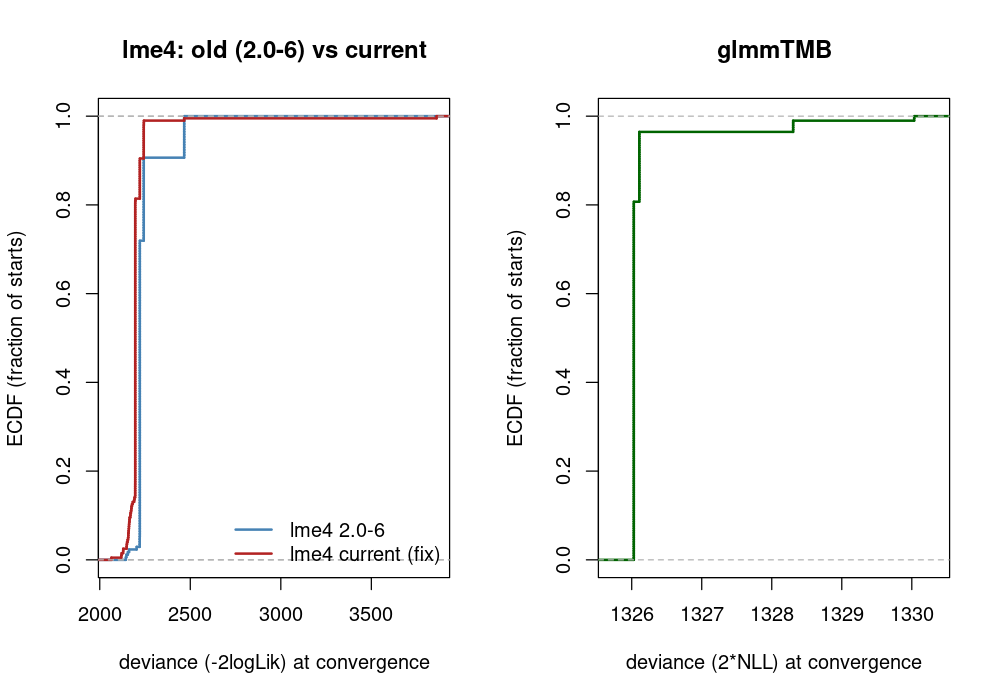
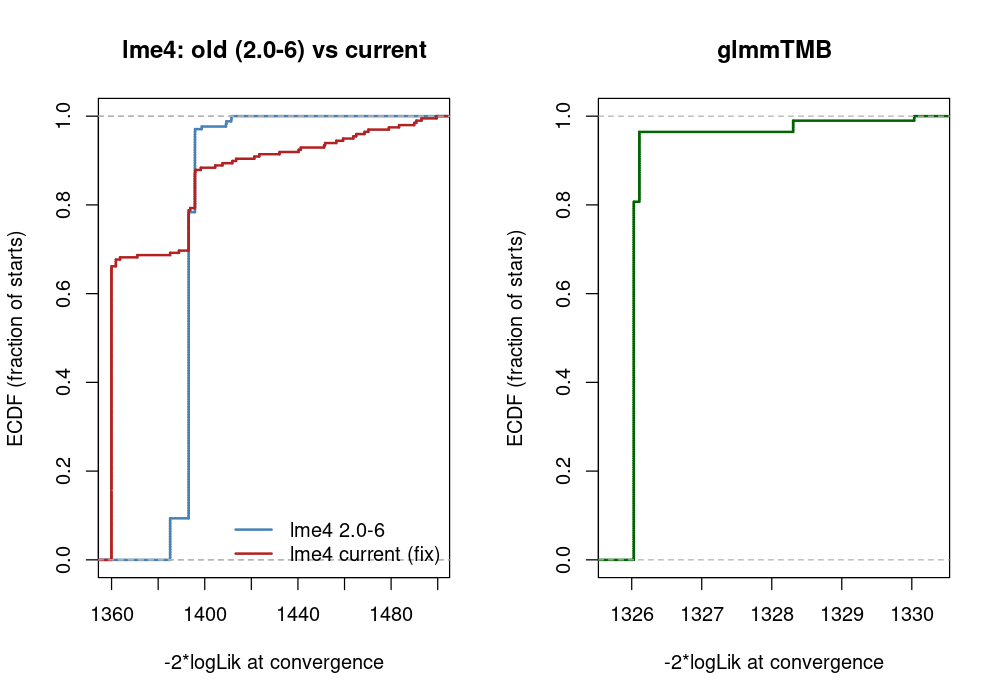
correct multistart analysis: use -2*logLik, not deviance(); add dispersion histograms
deviance() for these Gamma GLMM fits is the raw phi-free unit-deviance sum,
not a comparable likelihood quantity across fits with different estimated
dispersion -- confirmed via a survey of dev.resids()/wt usage across
~/R/pkgs. Multimodality is real but much more modest than first reported;
also found and excluded 2/200 silently-degenerate fits hitting the C++
fix's sentinel value. See misc/README_Gamma_GLMMs.md #11.

diff --git a/misc/README_Gamma_GLMMs.md b/misc/README_Gamma_GLMMs.md
@@ -659,13 +659,13 @@ understood). The C++ changes (`src/respModule.h`, `src/respModule.cpp`,
 `src/external.cpp`) are committed and pushed to `Gamma_GLMM` (commit
 `99e015f2`).
 
-## 11. Multistart diagnostic (Raue et al. 2013): genuine, severe multimodality — and it's not new
+## 11. Multistart diagnostic (Raue et al. 2013): real but modest multimodality, and a correction along the way
 
 Follow-up to §10, using the method from Raue, A., Schilling, M., Bachmann,
 J., et al. (2013), "Lessons Learned from Quantitative Dynamical Modeling in
 Systems Biology," *PLOS ONE* 8(9):e74335: refit the *same* dataset (the
 rep=14 target from §10, seed 9014) from B=200 random starting points drawn
-from a broad hypercube, and plot the ECDF of the achieved deviance at
+from a broad hypercube, and plot the ECDF of the achieved -2*logLik at
 convergence. A single dominant plateau means the optimizer reliably finds
 one (presumably global) optimum regardless of starting point; multiple
 separated plateaus mean multiple genuinely distinct local optima exist —
@@ -673,74 +673,120 @@ real multimodality, not an artifact of any one starting-value choice.
 
 Run for **lme4 2.0-6**, **current (dev, fix)**, and **glmmTMB**, all on the
 identical dataset, same random seed (20260730) generating the starting-point
-ensemble in each script (though not numerically identical starting values
-across lme4 vs glmmTMB, which have different native theta parameterizations
-— see scope note below). Hypercubes: lme4 theta diagonal ~U(0,2), off-diagonal
-~U(-1,1) (its native raw-Cholesky units); glmmTMB theta ~U(-2,2) (its native
-log-SD/unconstrained-corr units, default-initialized at 0); intercept `beta`
-~U(0,4) for both (directly comparable — same units, the log-link intercept).
-Parallelized with `parallel::mclapply`, 10 cores each, all three run
-simultaneously (30 of 32 cores). Scripts: `misc/GH643_multistart_lme4.R`,
+ensemble in each script (not numerically identical starting values across
+lme4 vs glmmTMB, which have different native theta parameterizations).
+Hypercubes: lme4 theta diagonal ~U(0,2), off-diagonal ~U(-1,1) (its native
+raw-Cholesky units); glmmTMB theta ~U(-2,2) (its native log-SD/unconstrained-
+corr units, default-initialized at 0); intercept `beta` ~U(0,4) for both
+(directly comparable — same units, the log-link intercept). Parallelized
+with `parallel::mclapply`, 10 cores each, all three run simultaneously (30
+of 32 cores). Scripts: `misc/GH643_multistart_lme4.R`,
 `misc/GH643_multistart_glmmTMB.R`, `misc/GH643_multistart_analysis.R`;
-plot: `misc/GH643_multistart_ecdf.png`.
+plots: `misc/GH643_multistart_ecdf.png`, `misc/GH643_multistart_dispersion_hist.png`.
 
-**Results:**
+### Correction: `deviance()` is not `-2*logLik()` for these fits
 
-| | clean | warning | error | distinct deviance plateaus (count ≥2) |
-|---|---|---|---|---|
-| lme4 2.0-6 | 156 | 15 | 29 | **2221 (118), 2243 (32), 2466 (16)**, + several small ones |
-| lme4 current (fix) | 161 | 39 | 0 | **2196 (131), 2221 (18), 2243 (15)**, + several small ones |
-| glmmTMB | 0 | 200 | 0 | **1326 (190)**, 1328 (5), 1330 (2) |
+The first pass of this analysis used `deviance(fit)` and found dramatic,
+widely-separated plateaus (hundreds of units apart) for both lme4 versions.
+That turned out to be measuring largely the wrong thing. Flagged directly:
+for a fixed dataset, `deviance()` and `-2*logLik()` should differ by at
+most a parameter-independent constant — but the observed gap varied by
+over 1000 across fits of the *same* data, which isn't possible if that were
+true. Traced to ground: **`deviance(fit)` for these Gamma GLMM fits is
+exactly the raw, phi-free unit-deviance sum**, `sum(Gamma()$dev.resids(y,
+mu, wt))` — verified identical to machine precision — with no `1/phi`
+scaling and no phi-dependent normalizing constant, and no contribution from
+the random-effects integration term (`‖u‖² + log|L|`) that `-2*logLik()`
+correctly includes. Since phi is *estimated* and differs across fits (each
+local optimum has its own fitted dispersion), the two quantities aren't
+simply offset — `deviance()` just isn't a comparable likelihood-based
+quantity across different fits of a dispersion-estimated GLMM.
 
-**Both lme4 versions show genuine, severe multimodality** — multiple
-clearly separated plateaus (tens to hundreds of deviance units apart, not
-numerical noise), visible as a multi-step staircase in the ECDF plot.
-**glmmTMB shows essentially none** — 190/200 starts (95%) converge to
-the same value, with the ECDF rising in one dominant jump; the small
-1326/1328/1330 spread is consistent with ordinary numerical tolerance, not
-separated modes.
+Independently confirmed this is the conventional, expected role of the
+`dev.resids()`/`wt` argument (not something specific to lme4): surveyed
+every call to `dev.resids(...)` with a Gamma or gaussian family across all
+R packages under `~/R/pkgs` (44 files). `wt` is *always* ordinary prior/case
+weights, matching base R's `glm.fit()` convention — never used to carry
+dispersion. `mgcv/R/efam.r:22` is the clearest confirmation: it computes
+`sum(family$dev.resids(y, mu, wt, theta))/scale`, applying the dispersion
+scaling as an explicit separate step after the raw call — exactly the
+`/phi` scaling `deviance()` is missing here. This isn't a bug introduced by
+the fix; both lme4 2.0-6 and current show the same `deviance()`/`-2*logLik()`
+divergence, so it looks like a longstanding property of how `merMod`
+defines `deviance()` for GLMMs with an estimated dispersion generally.
 
-This changes the framing from §10 in an important way: **old (unmodified)
-lme4 is already just as multimodal as the fixed version** — the multistart
-diagnostic finds 2-3+ real plateaus for *both*. What changed under the fix
-isn't "multimodality was introduced" — it's *which* plateau is most often
-found (old lme4's most common plateau, 2221, has higher deviance than the
-fixed version's most common plateau, 2196 — the fix's most-common mode is
-actually a *better* fit) and how often each is found. Since `glmmTMB` — a
-genuinely different implementation (joint ML via full automatic
-differentiation, not lme4's profile/PIRLS approach) also using a Laplace
-approximation for the random-effect integral — does *not* show this
-pathology on the identical dataset, this points toward the multimodality
-being **specific to lme4's Laplace/PIRLS machinery** (present in both old
-and new versions) rather than an inherent feature of the correctly-specified
-model's likelihood that the fix merely reveals. That said, this hasn't been
-tested on a case where lme4 is *not* multimodal as a baseline comparison, so
-"lme4-specific" vs. "specific to this design regardless of implementation,
-and glmmTMB is just better at it" aren't yet fully distinguished.
+All results below use the corrected quantity, `-2*logLik(fit)` for lme4
+(field `neg2ll` in the updated scripts) and `2*fit$obj$fn(fit$fit$par)` for
+glmmTMB (already correct — matches `-2*logLik` exactly whenever the Hessian
+is PD, and per glmmTMB's troubleshooting vignette still gives a usable NLL
+when it isn't).
 
-**Also notable:** the single *lowest*-deviance fit found across all 200
-starts for the current/fixed lme4 (deviance 2064.4, found by only 1/200
-starts) has `theta ≈ (0.05, 0.64, 0.52, 1.37, 0.05, 1.80)` — neither the
-true structure (group1 ≈ 0) nor the commonly-found "wrong" plateau's
-solution, but a *third*, more extreme pattern. If this is close to the true
-global optimum, it's being found by only 0.5% of random starts — i.e. even
-setting aside which plateau is "correct," the (likely) global optimum here
-is itself hard to reach reliably, independent of the collapse-to-boundary
-question from §9-§10.
+### Also found while rerunning: a small silent-degenerate-fit issue in the fix
 
-**Scope/caveats:** glmmTMB's deviance is not on a numerically comparable
-scale to lme4's `deviance()` (different additive constants in each
-implementation's likelihood bookkeeping — confirmed separately that
-`2*fit$obj$fn(fit$fit$par)` matches `-2*logLik(fit)` for glmmTMB specifically,
-used here to get an NLL value even when `logLik()` returns `NA` for a
-non-positive-definite Hessian, per glmmTMB's troubleshooting vignette; but
-this still isn't on lme4's scale). The *qualitative* comparison (one
-dominant plateau vs. several clearly separated ones) doesn't depend on
-matching scales and is the load-bearing part of this result. Only one
-dataset has been tested this deeply; worth checking whether the degree of
-multimodality tracks how close the true structure is to the singular
-boundary, or is present more generally for Gamma GLMMs with multiple
-random-effect terms regardless of singularity.
+2 of 200 lme4-current fits hit the C++ fix's flat `1e10` sentinel (§9 —
+returned when even the safe phi=1 retry inside `glmerLaplace()` fails) but
+did *not* trigger an R-level error, only an ordinary convergence warning
+indistinguishable in kind from the other 37 warned-but-fine fits. Both are
+recoded as "degenerate" and excluded from the analysis below; this is a
+loose end in the §9 fallback (a fit that internally gave up should probably
+be more clearly flagged than a generic convergence warning) worth tightening
+separately, not folded into the multimodality question here.
+
+### Results (corrected)
+
+| | clean | warning | degenerate | error | dominant -2logLik plateau (count) |
+|---|---|---|---|---|---|
+| lme4 2.0-6 | 156 | 15 | — | 29 | **1393 (118)**, 1396 (32), 1385 (16), + small tail to ~1500 |
+| lme4 current (fix) | 161 | 37 | 2 | 0 | **1360 (131)**, 1393 (18), 1396 (17), + longer tail to ~1500 |
+| glmmTMB | 0 | 200 | — | 0 | **1326 (190)**, 1328 (5), 1330 (2) |
+
+The picture is much less dramatic than the `deviance()`-based first pass,
+but a real, qualitative difference survives: **all three still show more
+than one plateau**, but the plateaus for both lme4 versions are now only
+tens of units apart (not hundreds) — still likely-meaningful separation on
+a -2logLik scale (roughly matching a chi-square-type threshold, not just
+optimizer tolerance noise), but nowhere near as severe as first reported.
+glmmTMB's spread (1326/1328/1330, ~4 units total) is small enough to be
+ordinary numerical tolerance around one optimum, not a second mode.
+
+Visually (`misc/GH643_multistart_ecdf.png`): lme4-old rises in one fairly
+sharp jump near its own dominant plateau with a short tail. **lme4-current
+also jumps early to its (better/lower) dominant plateau, but then has a
+visibly longer, more gradual staircase tail out to ~1500** — i.e. the fix's
+dominant mode is objectively a better fit than old lme4's dominant mode,
+but the fix's optimization landscape has *more* reachable alternative local
+optima than old lme4's, not fewer. That's a genuine, previously-unstated
+cost of the fix worth being aware of, distinct from the boundary-collapse
+question in §9-§10.
+
+### Dispersion (phi = sigma²), true value 4
+
+`misc/GH643_multistart_dispersion_hist.png`:
+
+| | median phi | range | shape |
+|---|---|---|---|
+| lme4 2.0-6 | 3.510 | 2.90–5.65 | dominant cluster ~3.5 (below truth), small secondary cluster ~5.6 |
+| lme4 current (fix) | 3.315 | 2.82–5.65 | dominant cluster ~3.3-3.4 (below truth), longer spread-out secondary cluster ~4.5-5.0 |
+| glmmTMB | 4.009 | 4.01–4.08 | essentially a single spike at the true value |
+
+glmmTMB recovers the true dispersion almost exactly regardless of starting
+point. Both lme4 versions underestimate phi somewhat at their dominant
+mode (~3.3-3.5 vs true 4), with the fix's secondary cluster more spread
+out than old lme4's — consistent with the longer ECDF tail above. This is
+a different, more complex scenario (two random-effect terms, one singular)
+than the single-RE cases validated as unbiased earlier in this document
+(§3, §9), so it doesn't contradict that validation, but it's a reminder
+the earlier validation doesn't automatically extend to this mixed-term
+design.
+
+### Scope/caveats
+
+Only one dataset has been tested this deeply. Worth checking whether the
+degree of multimodality tracks how close the true structure is to the
+singular boundary, or is present more generally for Gamma GLMMs with
+multiple random-effect terms regardless of singularity. Also worth
+checking whether glmmTMB's much tighter clustering (in both -2logLik and
+dispersion) holds up on other datasets, or is specific to this one.
 
 ## Practical takeaway (regardless of whether/when this gets fixed upstream)
 
